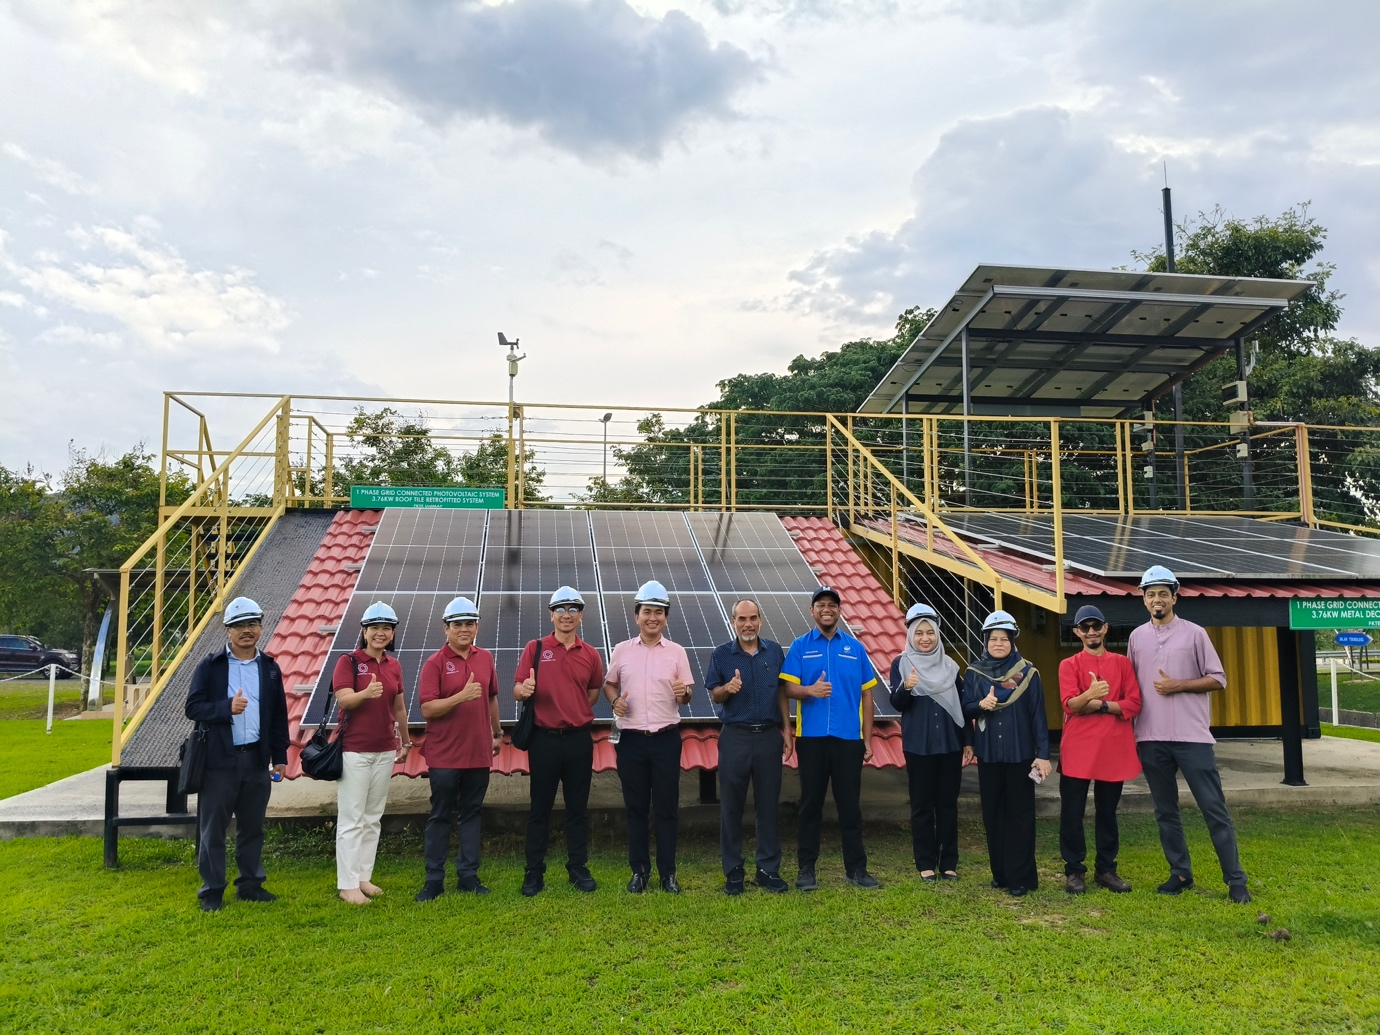
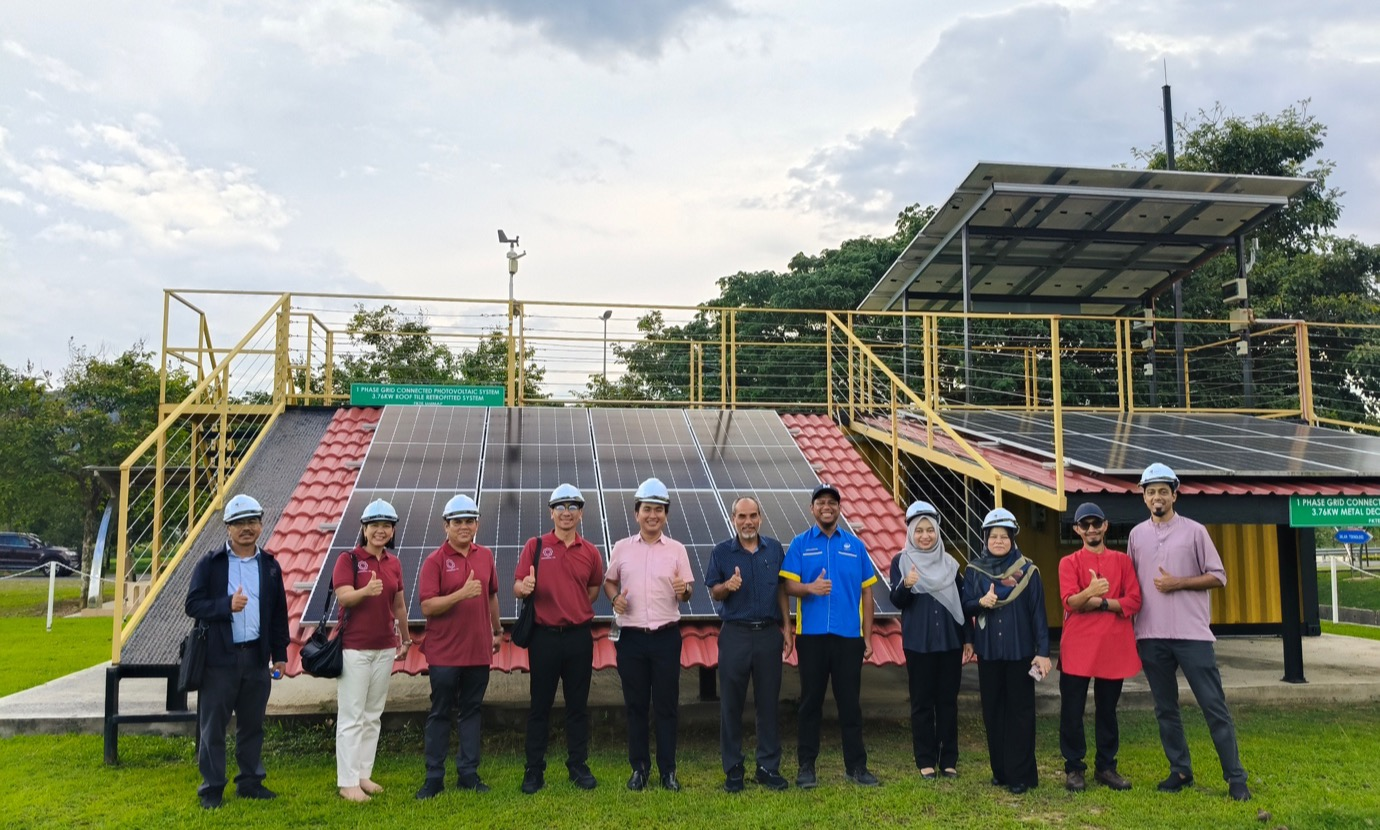
Real program pathways; crop hero photo
- Programs: replaced invented details (30k THB grants etc.) with real
  pathways: HEU year exchange, 2+2/3+2 double degrees, Erasmus+ KA171
- Hero photo cropped to feature the delegation

diff --git a/assets/js/i18n.js b/assets/js/i18n.js
@@ -120,15 +120,15 @@ window.SETCIA_I18N = {
     "programs.inbound.title": "For International Applicants",
     "programs.inbound.sub": "Come study or research at Walailak — full degree, exchange, or short-term.",
 
-    "programs.p1.tag": "Semester Exchange",
-    "programs.p1.title": "Outbound Semester Exchange",
-    "programs.p1.desc": "Spend a semester at one of our partner universities. Credits transferable. Scholarships available for selected destinations.",
-    "programs.p2.tag": "Summer Program",
-    "programs.p2.title": "Engineering Summer School Abroad",
-    "programs.p2.desc": "2–4 week intensive technical programs at partner universities. Travel grants up to 30,000 THB available.",
-    "programs.p3.tag": "Research",
-    "programs.p3.title": "Visiting Research Internship",
-    "programs.p3.desc": "Spend 1–3 months in a research lab abroad, working alongside international faculty and PhD students.",
+    "programs.p1.tag": "Exchange",
+    "programs.p1.title": "Student Exchange at Partner Universities",
+    "programs.p1.desc": "Semester and year-long exchanges under our MOUs — in 2025, three Computer Engineering students spent a full year at Harbin Engineering University, China.",
+    "programs.p2.tag": "Double Degree",
+    "programs.p2.title": "Double-Degree Pathways (2+2 · 3+2)",
+    "programs.p2.desc": "Earn two degrees: the 2+2 Computer Engineering & AI program with Harbin Engineering University (China), and a 3+2 pathway with National Chung Cheng University (Taiwan) in development.",
+    "programs.p3.tag": "Erasmus+",
+    "programs.p3.title": "Erasmus+ KA171 Mobility to Europe",
+    "programs.p3.desc": "EU-supported student and staff mobility with Kahramanmaraş Sütçü İmam University (Turkey), and Slovak University of Technology in Bratislava (application submitted).",
     "programs.p4.tag": "Inbound · Degree",
     "programs.p4.title": "International Engineering Degree",
     "programs.p4.desc": "Apply to SET's English-taught international programs — the Master of Engineering and the Doctor of Philosophy in Engineering — alongside six bachelor's degree programs.",
@@ -318,15 +318,15 @@ window.SETCIA_I18N = {
     "programs.inbound.title": "สำหรับผู้สมัครจากต่างประเทศ",
     "programs.inbound.sub": "มาเรียนหรือทำวิจัยที่วลัยลักษณ์ — หลักสูตรเต็ม แลกเปลี่ยน หรือระยะสั้น",
 
-    "programs.p1.tag": "แลกเปลี่ยน 1 ภาคการศึกษา",
-    "programs.p1.title": "การแลกเปลี่ยนนักศึกษาออก 1 ภาคการศึกษา",
-    "programs.p1.desc": "ใช้เวลา 1 ภาคการศึกษาที่มหาวิทยาลัยพันธมิตร โอนหน่วยกิตได้ มีทุนสำหรับปลายทางที่เลือก",
-    "programs.p2.tag": "โปรแกรมภาคฤดูร้อน",
-    "programs.p2.title": "ภาคฤดูร้อนวิศวกรรมในต่างประเทศ",
-    "programs.p2.desc": "โปรแกรมเทคนิคเข้มข้น 2–4 สัปดาห์ที่มหาวิทยาลัยพันธมิตร มีทุนเดินทางสูงสุด 30,000 บาท",
-    "programs.p3.tag": "วิจัย",
-    "programs.p3.title": "การฝึกงานวิจัยในต่างประเทศ",
-    "programs.p3.desc": "ใช้เวลา 1–3 เดือนในห้องปฏิบัติการต่างประเทศ ทำงานร่วมกับคณาจารย์และนักศึกษาปริญญาเอก",
+    "programs.p1.tag": "แลกเปลี่ยน",
+    "programs.p1.title": "นักศึกษาแลกเปลี่ยน ณ มหาวิทยาลัยพันธมิตร",
+    "programs.p1.desc": "แลกเปลี่ยนหนึ่งภาคเรียนถึงหนึ่งปีภายใต้ MOU — ปี 2025 นักศึกษาวิศวกรรมคอมพิวเตอร์ 3 คน ไปแลกเปลี่ยนหนึ่งปีที่ Harbin Engineering University ประเทศจีน",
+    "programs.p2.tag": "ปริญญาคู่",
+    "programs.p2.title": "หลักสูตรปริญญาคู่ (2+2 · 3+2)",
+    "programs.p2.desc": "รับสองปริญญา: หลักสูตร 2+2 วิศวกรรมคอมพิวเตอร์และ AI กับ Harbin Engineering University (จีน) และเส้นทาง 3+2 กับ National Chung Cheng University (ไต้หวัน) ที่กำลังพัฒนา",
+    "programs.p3.tag": "Erasmus+",
+    "programs.p3.title": "ทุน Erasmus+ KA171 สู่ยุโรป",
+    "programs.p3.desc": "การแลกเปลี่ยนนักศึกษาและบุคลากรโดยการสนับสนุนของ EU ร่วมกับ Kahramanmaraş Sütçü İmam University (ตุรกี) และ Slovak University of Technology (อยู่ระหว่างสมัคร)",
     "programs.p4.tag": "นักศึกษาเข้า · ปริญญา",
     "programs.p4.title": "หลักสูตรวิศวกรรมนานาชาติ",
     "programs.p4.desc": "สมัครเรียนหลักสูตรนานาชาติของ SET — ปริญญาโทและปริญญาเอกสาขาวิศวกรรมศาสตร์ (สอนเป็นภาษาอังกฤษ) พร้อมหลักสูตรปริญญาตรี 6 สาขา",

diff --git a/pages/programs.html b/pages/programs.html
@@ -51,26 +51,26 @@
 
       <div class="grid" style="gap:16px;">
         <div class="program">
-          <span class="badge" data-i18n="programs.p1.tag">Semester Exchange</span>
+          <span class="badge" data-i18n="programs.p1.tag">Exchange</span>
           <div>
-            <h3 data-i18n="programs.p1.title">Outbound Semester Exchange</h3>
-            <p data-i18n="programs.p1.desc">Spend a semester at one of our partner universities. Credits transferable. Scholarships available for selected destinations.</p>
+            <h3 data-i18n="programs.p1.title">Student Exchange at Partner Universities</h3>
+            <p data-i18n="programs.p1.desc">Semester and year-long exchanges under our MOUs — in 2025, three Computer Engineering students spent a full year at Harbin Engineering University, China.</p>
           </div>
           <a href="contact.html?topic=exchange" class="btn btn-ghost" data-i18n="programs.action">Learn more</a>
         </div>
         <div class="program">
-          <span class="badge" data-i18n="programs.p2.tag">Summer Program</span>
+          <span class="badge" data-i18n="programs.p2.tag">Double Degree</span>
           <div>
-            <h3 data-i18n="programs.p2.title">Engineering Summer School Abroad</h3>
-            <p data-i18n="programs.p2.desc">2–4 week intensive technical programs at partner universities. Travel grants up to 30,000 THB available.</p>
+            <h3 data-i18n="programs.p2.title">Double-Degree Pathways (2+2 · 3+2)</h3>
+            <p data-i18n="programs.p2.desc">Earn two degrees: the 2+2 Computer Engineering & AI program with Harbin Engineering University (China), and a 3+2 pathway with National Chung Cheng University (Taiwan) in development.</p>
           </div>
           <a href="contact.html?topic=exchange" class="btn btn-ghost" data-i18n="programs.action">Learn more</a>
         </div>
         <div class="program">
-          <span class="badge" data-i18n="programs.p3.tag">Research</span>
+          <span class="badge" data-i18n="programs.p3.tag">Erasmus+</span>
           <div>
-            <h3 data-i18n="programs.p3.title">Visiting Research Internship</h3>
-            <p data-i18n="programs.p3.desc">Spend 1–3 months in a research lab abroad, working alongside international faculty and PhD students.</p>
+            <h3 data-i18n="programs.p3.title">Erasmus+ KA171 Mobility to Europe</h3>
+            <p data-i18n="programs.p3.desc">EU-supported student and staff mobility with Kahramanmaraş Sütçü İmam University (Turkey), and Slovak University of Technology in Bratislava (application submitted).</p>
           </div>
           <a href="contact.html?topic=exchange" class="btn btn-ghost" data-i18n="programs.action">Learn more</a>
         </div>
